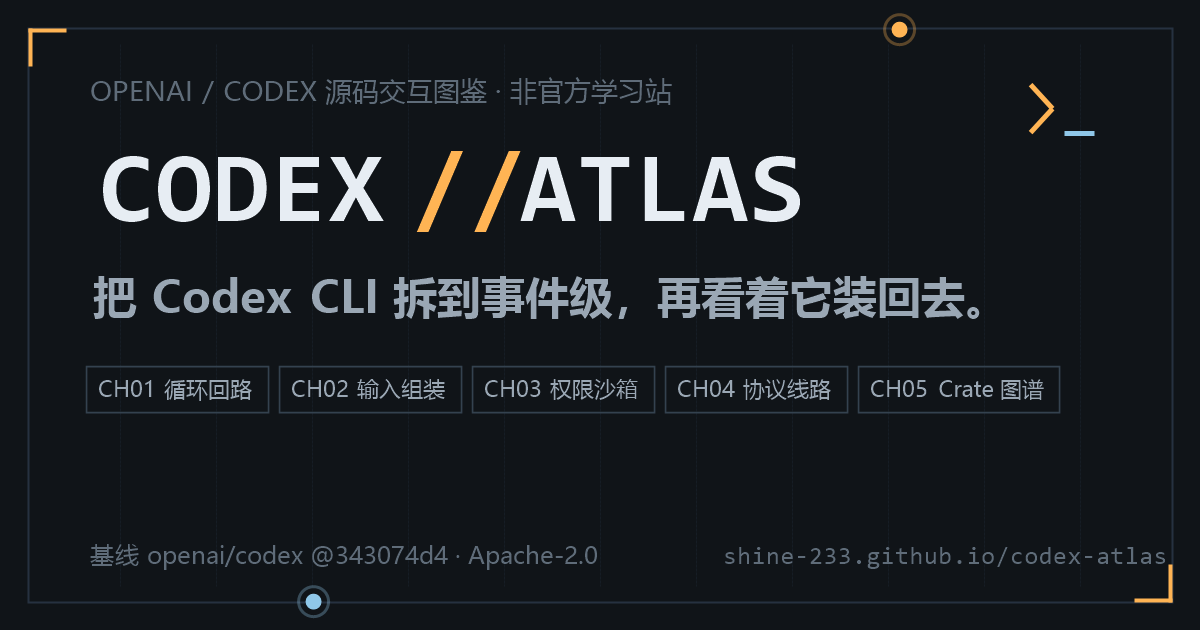
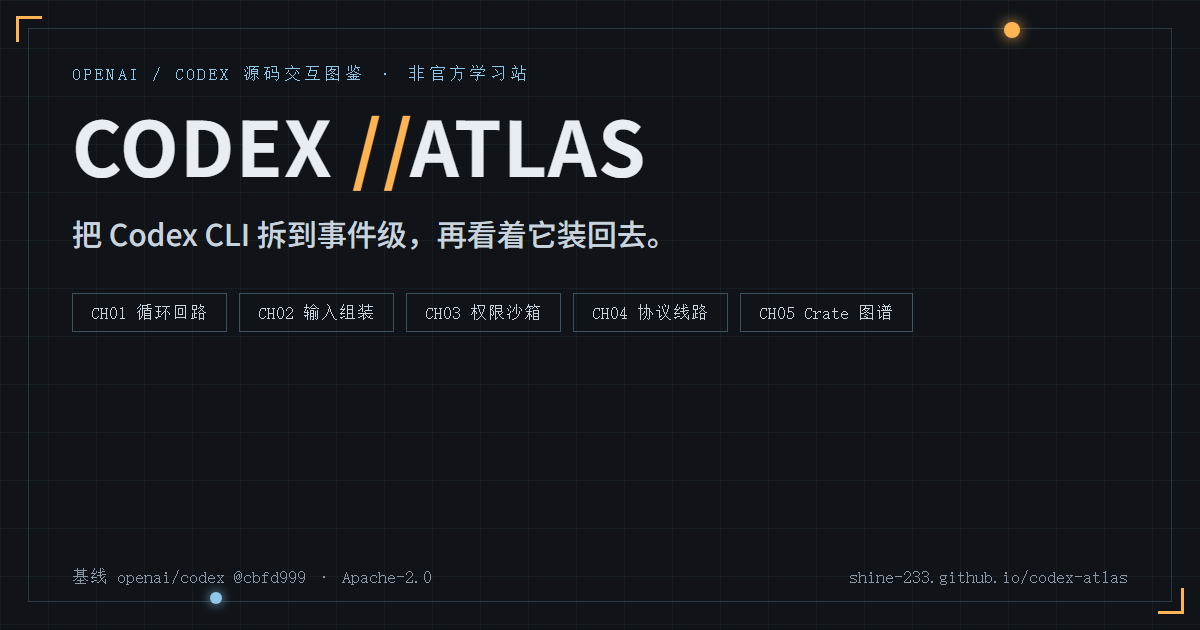
fix: regenerate og.png social card at new baseline cbfd999 (same branded design, updated sha); verified mobile 390x844 across all 9 pages (no horizontal overflow, zero JS errors, layouts adapt: ribbon/flowmap/view-seg/band-chips all wrap cleanly) and reduced-motion spot check clean; sitemap confirme

diff --git a/labs/deep.html b/labs/deep.html
@@ -786,7 +786,7 @@ pub(crate) fn run_commit_tick(
        <p class="small muted" style="margin:14px 0 0;">这些流排出来的行，最终落成屏上的一段段「cell」：你的消息、模型的回答、一条命令输出，各自是一个 HistoryCell。宽度是它的入参——cell 拿着当前宽度现算显示行；连占几行都按同一宽度重新量。源码特意注明：含 URL 的行比终端还宽时，逻辑行数会低估，所以量的必须是换行后的真实行数。</p>
        <details class="src-details">
          <summary>🔍 看真实源码 · HistoryCell trait：宽度进、行数出</summary>
-         <pre><span class="src-loc">codex-rs/tui/src/history_cell/mod.rs :176-187, 215-232 · @cbfd999 实测</span>
+          <pre><span class="src-loc">codex-rs/tui/src/history_cell/mod.rs :175-187, 214-232 · @cbfd999 实测</span>
 <span class="src-code">/// A single renderable unit of conversation history.
 ///
 /// Each cell produces logical `Line`s and reports how many viewport
